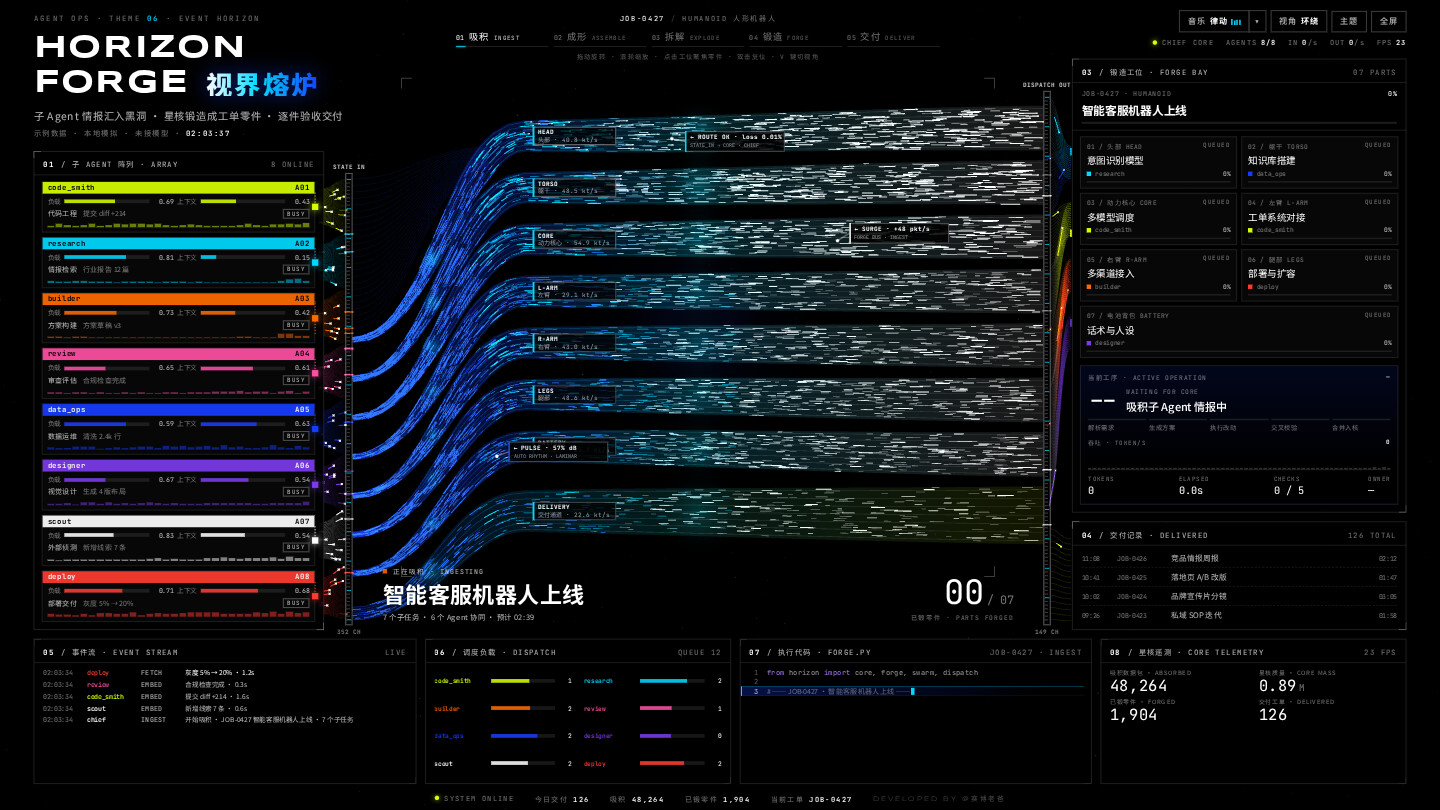
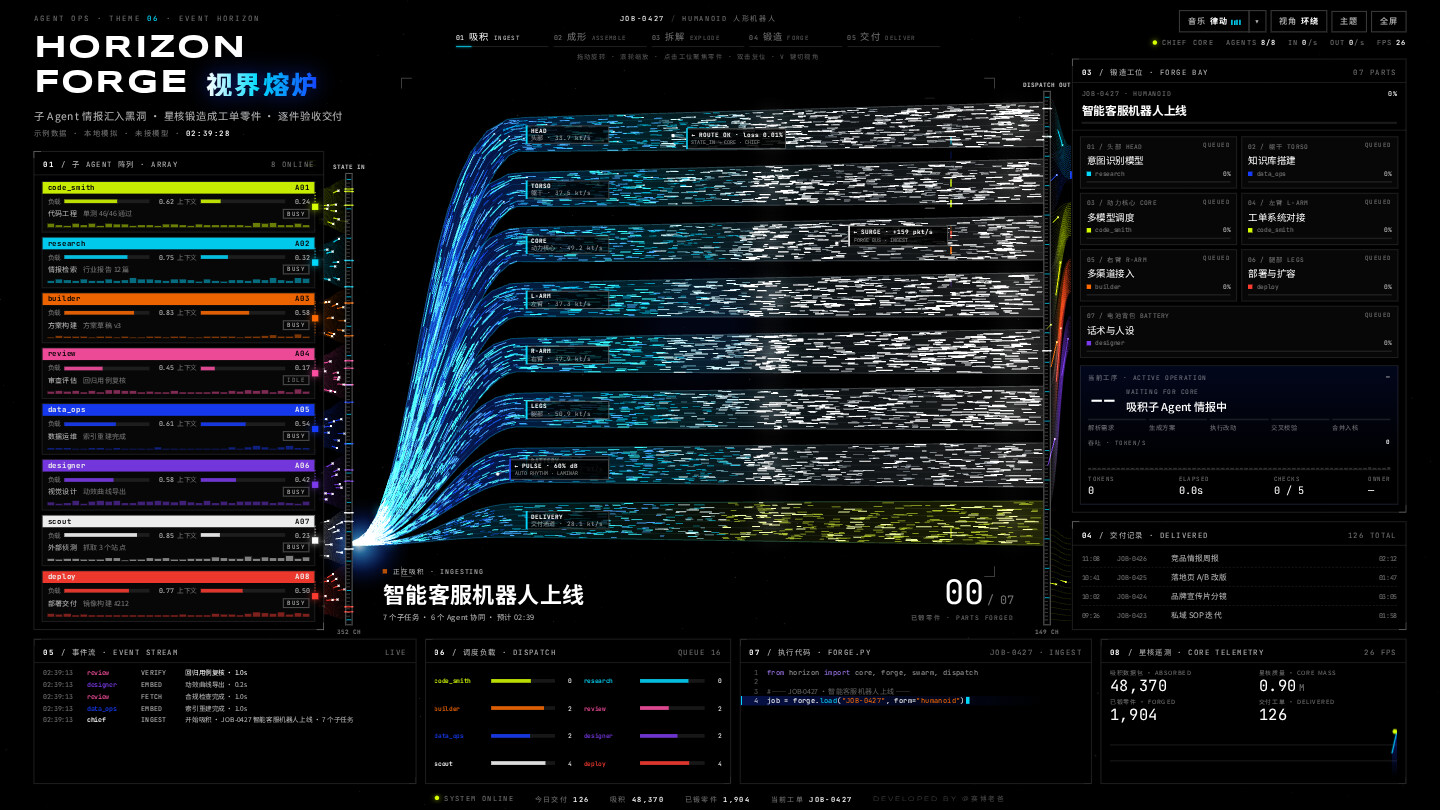
update

diff --git a/index.html b/index.html
@@ -11058,24 +11058,28 @@ function sampleBand(b, u) {
     b.hw[i0] + (b.hw[i1] - b.hw[i0]) * t
   ];
 }
-function makeBand(x0, x1, yStart, yBranch, yEnd, wStart, wBranch, wEnd, meta) {
+function makeBand(x0, x1, yStart, yBranch, yEnd, wStart, wBranch, wEnd, meta, bendFrac) {
   var xs = new Float32Array(FLOW_SEG + 1), ys = new Float32Array(FLOW_SEG + 1);
   var nx = new Float32Array(FLOW_SEG + 1), ny = new Float32Array(FLOW_SEG + 1);
   var hw = new Float32Array(FLOW_SEG + 1);
-  var splitU = 0.25, xBr = x0 + (x1 - x0) * splitU, spanL = xBr - x0, spanR = x1 - xBr;
-  var s1 = [x0, yStart, x0 + spanL * 0.46, yStart, xBr - spanL * 0.40, yBranch, xBr, yBranch];
-  var s2 = [xBr, yBranch, xBr + spanR * 0.34, yBranch, x1 - spanR * 0.34, yEnd, x1, yEnd];
+  var bf = (bendFrac !== undefined) ? bendFrac : 0.5;
+  var splitU = 0.24, xBr = x0 + (x1 - x0) * splitU, spanL = xBr - x0, spanR = x1 - xBr;
+  /* 底部单点收束 → 陡峭电蓝上扫弧线 → 干脆折入右侧水平层流通道 */
+  var cp1x = x0 + spanL * (0.36 + bf * 0.14);
+  var cp2x = x0 + spanL * (0.50 + bf * 0.14);
+  var s1 = [x0, yStart, cp1x, yStart, cp2x, yBranch, xBr, yBranch];
+  var s2 = [xBr, yBranch, xBr + spanR * 0.35, yBranch + (yEnd - yBranch) * 0.35, x1 - spanR * 0.35, yBranch + (yEnd - yBranch) * 0.65, x1, yEnd];
   var k, u, p, w;
   for (k = 0; k <= FLOW_SEG; k++) {
     u = k / FLOW_SEG;
     if (u <= splitU) {
       var tu = u / splitU;
       p = bzPt(s1, tu);
-      w = wStart + (wBranch - wStart) * ease(tu);
+      w = wStart + (wBranch - wStart) * Math.pow(ease(tu), 1.25);
     } else {
       var tr = (u - splitU) / (1 - splitU);
       p = bzPt(s2, tr);
-      w = wBranch + (wEnd - wBranch) * Math.pow(tr, 0.85);
+      w = wBranch + (wEnd - wBranch) * Math.pow(tr, 0.88);
     }
     xs[k] = p[0]; ys[k] = p[1]; hw[k] = w;
   }
@@ -11084,31 +11088,31 @@ function makeBand(x0, x1, yStart, yBranch, yEnd, wStart, wBranch, wEnd, meta) {
     var dx = xs[k1] - xs[k0], dy = ys[k1] - ys[k0], l = Math.sqrt(dx * dx + dy * dy) || 1;
     nx[k] = -dy / l; ny[k] = dx / l;
   }
-  return { xs: xs, ys: ys, nx: nx, ny: ny, hw: hw, splitU: splitU, x0: x0, x1: x1, xBr: xBr, yBranch: yBranch, yEnd: yEnd, meta: meta || {} };
+  return { xs: xs, ys: ys, nx: nx, ny: ny, hw: hw, splitU: splitU, x0: x0, x1: x1, xBr: xBr, yStart: yStart, yBranch: yBranch, yEnd: yEnd, meta: meta || {} };
 }
 function initFlowParticles() {
   flowParts = [];
   if (!flowBands.length) return;
   var rr = mulberry32(314159);
-  /* 更高密度（5400 条精细短条纹）+ 更短长度，视觉层次更细腻 */
-  var totalN = L.narrow ? 1900 : 5400;
+  /* 高密度 6600 条锐利短条纹，右侧白亮饱满、左侧电蓝紧密汇聚 */
+  var totalN = L.narrow ? 2200 : 6600;
   var nB = flowBands.length, i, per;
   var hasDel = flowBands[nB - 1].meta.kind === "del";
   for (var bi = 0; bi < nB; bi++) {
     var isDel = flowBands[bi].meta.kind === "del";
-    per = Math.round(totalN * (isDel ? 0.08 : 0.92 / Math.max(1, nB - (hasDel ? 1 : 0))));
+    per = Math.round(totalN * (isDel ? 0.11 : 0.89 / Math.max(1, nB - (hasDel ? 1 : 0))));
     for (i = 0; i < per; i++) {
-      var laneSlot = (Math.floor(rr() * 28) + 0.5) / 28 * 2 - 1;
-      var v = clamp(laneSlot * 0.90 + (rr() - 0.5) * 0.18, -1, 1);
+      var laneSlot = (Math.floor(rr() * 30) + 0.5) / 30 * 2 - 1;
+      var v = clamp(laneSlot * 0.92 + (rr() - 0.5) * 0.14, -1, 1);
       var coreBias = 1 - Math.abs(v);
       var q = rr();
-      var tier = q < 0.52 ? 0 : (q < 0.86 ? 1 : 2);
+      var tier = q < 0.44 ? 0 : (q < 0.82 ? 1 : 2);
       flowParts.push({
         b: bi,
         u: rr(),
         v: v,
-        spd: (0.14 + rr() * 0.24) * (0.76 + coreBias * 0.46),
-        len: 0.0065 + rr() * 0.0135 + (tier === 2 ? 0.0055 : 0),
+        spd: (0.16 + rr() * 0.25) * (0.78 + coreBias * 0.44),
+        len: 0.006 + rr() * 0.0125 + (tier === 2 ? 0.0055 : 0),
         tier: tier,
         ph: rr() * TAU,
         blink: rr() * TAU
@@ -11123,7 +11127,7 @@ function buildCurves() {
   var jParts = (typeof job === "function" && job()) ? job().parts : [];
   if (!L.narrow) {
     var st = L.stage, colL = rel($("colL")), leftEdge = colL.x + colL.w;
-    /* 1. 恢复原版左侧 STATE IN 全高 352 CH 密集丝扇连接 */
+    /* 1. 左侧 STATE IN 全高密集丝扇连接 */
     var bx = leftEdge + 34 * bsc, b0 = colL.y + 38 * bsc, b1 = colL.y + colL.h - 14 * bsc;
     busIn = { x: bx, y0: b0, y1: b1, label: "STATE IN" };
     var nPer = 44, total = AG.length * nPer;
@@ -11137,32 +11141,33 @@ function buildCurves() {
         inByAgent[i].push(curvesIn.length); curvesIn.push(cv);
       }
     }
-    /* 2. 恢复原版右侧 DISPATCH OUT 全高 ~150 CH 密集丝扇连接 */
+    /* 2. 右侧 DISPATCH OUT 全高密集丝扇连接 */
     var colR = rel($("colR")), bay = rel($("bay")), dv = rel($("deliv")), pcs = partsBox.children;
     var ox = colR.x - 34 * bsc, o0 = bay.y + 52 * bsc, o1 = dv.y + dv.h - 14 * bsc;
     busOut = { x: ox, y0: o0, y1: o1, label: "DISPATCH OUT" };
     var nBands = Math.max(1, pcs.length);
-    var flowTop = Math.max(o0 + 18 * bsc, st.y + st.h * 0.12);
-    var flowBot = Math.min(o1 - 12 * bsc, st.y + st.h * 0.86);
-    var splitY = flowTop + (flowBot - flowTop) * 0.84;
-    var slotH = (splitY - flowTop) / nBands;
+    var nLanes = nBands + 1; /* 等距排布全部工位通道 + 底部 DELIVERY 通道 */
+    var flowTop = Math.max(o0 + 14 * bsc, st.y + st.h * 0.09);
+    var flowBot = Math.min(o1 - 8 * bsc, st.y + st.h * 0.87);
+    var slotH = (flowBot - flowTop) / nLanes;
     var x0 = bx + 5 * bsc, x1 = ox - 5 * bsc;
-    var trunk0 = b0 + (b1 - b0) * 0.34, trunk1 = b1 - 8 * bsc;
+    /* 左下角单点极致收束源头（所有电蓝光束由此喷涌上扬并依次水平展开） */
+    var yPinch = flowBot - 4 * bsc;
     var nOut = Math.max(14, Math.round(134 / nBands));
     var outSpan = (dv.y - 18 * bsc) - o0;
+    var bandW = slotH * 0.365;
     for (i = 0; i < nBands; i++) {
-      var frac = nBands > 1 ? i / (nBands - 1) : 0.5;
-      var yStart = trunk0 + (0.04 + frac * 0.82) * (trunk1 - trunk0);
+      var frac = nLanes > 1 ? i / (nLanes - 1) : 0.5;
+      var yStart = yPinch - (nLanes - 1 - i) * 0.45 * bsc;
       var yBr = flowTop + (i + 0.5) * slotH;
-      var fanTilt = (frac - 0.5) * slotH * 0.30;
-      var yRight = clamp(yBr + fanTilt, flowTop + slotH * 0.24, splitY - slotH * 0.14);
+      /* 右侧轻微上扬张角，保持干脆平行层流 */
+      var yRight = yBr - (1 - frac * 1.15) * 14 * bsc;
       var pMeta = jParts[i] || { n: "通道 " + (i + 1), en: "LANE " + (i + 1), task: "队列就绪", ag: AGENTS[i % AGENTS.length].id };
       var agIdx = AGI.hasOwnProperty(pMeta.ag) ? AGI[pMeta.ag] : (i % AGENTS.length);
-      var bandW = slotH * 0.38;
-      flowBands.push(makeBand(x0, x1, yStart, yBr, yRight, bandW * 0.16, bandW * 0.80, bandW * 1.14, {
+      flowBands.push(makeBand(x0, x1, yStart, yBr, yRight, 1.5 * bsc, bandW * 0.84, bandW * 1.10, {
         kind: "part", idx: i, n: pMeta.n, en: pMeta.en, task: pMeta.task, ag: pMeta.ag, c: AGENTS[agIdx].c, rate: 18 + (i * 11 + 7) % 34
-      }));
-      /* 右侧 DISPATCH OUT → 工位卡片（恢复原版平顺密集丝扇） */
+      }, frac));
+      /* 右侧 DISPATCH OUT → 工位卡片 */
       outByPart.push([]);
       var pr = rel(pcs[i]), col = pcs[i].style.getPropertyValue("--c") || "#00d9ff";
       var seg0 = o0 + (i / nBands) * outSpan, seg1 = o0 + ((i + 1) / nBands) * outSpan;
@@ -11174,23 +11179,12 @@ function buildCurves() {
         outByPart[i].push(curvesOut.length); curvesOut.push(cv);
       }
     }
-    /* STATE IN 上半段温和汇流导丝（衔接全高 STATE IN 与主干，消除顶部断点） */
-    if (flowBands.length) {
-      var topBand = flowBands[0], joinPt = sampleBand(topBand, 0.20);
-      for (k = 0; k < 24; k++) {
-        var uTop = k / 23;
-        var syTop = b0 + uTop * (trunk0 - b0);
-        var jy = joinPt[1] + (uTop - 0.5) * topBand.hw[Math.round(FLOW_SEG * 0.20)] * 1.4;
-        var dTop = joinPt[0] - x0;
-        curvesCollect.push({ s1: [x0, syTop, x0 + dTop * 0.42, syTop, joinPt[0] - dTop * 0.45, jy, joinPt[0], jy], s2: null, f: 1 });
-      }
-    }
-    /* 底部交付流通道 + 恢复原版 16 丝交付连接 */
-    var delH = Math.max(22 * bsc, flowBot - splitY);
-    var delYStart = trunk1, delYBr = splitY + delH * 0.56, delYEnd = splitY + delH * 0.62;
-    flowBands.push(makeBand(x0, x1, delYStart, delYBr, delYEnd, delH * 0.10, delH * 0.30, delH * 0.42, {
-      kind: "del", idx: -1, n: "交付通道", en: "DELIVERY", task: "整机归档", ag: "deploy", c: "#d7ff00", rate: 14.8
-    }));
+    /* 底部交付流通道（与上方 7 条等距平齐，自左下同源平滑滑出，右侧呈橄榄金黄质感） */
+    var delYBr = flowTop + (nBands + 0.5) * slotH;
+    var delYEnd = delYBr + 4 * bsc;
+    flowBands.push(makeBand(x0, x1, yPinch, delYBr, delYEnd, 1.3 * bsc, bandW * 0.84, bandW * 1.10, {
+      kind: "del", idx: -1, n: "交付通道", en: "DELIVERY", task: "整机归档", ag: "deploy", c: "#d7ff00", rate: 21.8
+    }, 1.0));
     var delBus0 = dv.y + 10 * bsc, delBus1 = o1;
     for (k = 0; k < 16; k++) {
       var dy = delBus0 + (k / 15) * Math.max(12, delBus1 - delBus0);
@@ -11242,14 +11236,16 @@ function renderWeb() {
     var isDel = b.meta.kind === "del";
     g = fc.createLinearGradient(b.x0, 0, b.x1, 0);
     if (isDel) {
-      g.addColorStop(0, "rgba(22,60,255,0.18)");
-      g.addColorStop(0.35, "rgba(0,217,255,0.14)");
-      g.addColorStop(1, "rgba(215,255,0,0.10)");
+      g.addColorStop(0, "rgba(26,90,255,0.28)");
+      g.addColorStop(0.24, "rgba(0,198,255,0.16)");
+      g.addColorStop(0.56, "rgba(96,122,22,0.12)");
+      g.addColorStop(1, "rgba(176,196,24,0.20)");
     } else {
-      g.addColorStop(0, "rgba(22,60,255,0.34)");
-      g.addColorStop(0.22, "rgba(22,60,255,0.26)");
-      g.addColorStop(0.48, "rgba(0,217,255,0.18)");
-      g.addColorStop(1, "rgba(255,255,255,0.11)");
+      g.addColorStop(0, "rgba(30,96,255,0.44)");
+      g.addColorStop(0.20, "rgba(18,74,255,0.32)");
+      g.addColorStop(0.42, "rgba(0,210,255,0.17)");
+      g.addColorStop(0.72, "rgba(180,220,245,0.10)");
+      g.addColorStop(1, "rgba(255,255,255,0.13)");
     }
     fc.fillStyle = g;
     fc.beginPath();
@@ -11262,14 +11258,39 @@ function renderWeb() {
     }
     fc.closePath();
     fc.fill();
+
+    /* 通道上下清晰玻璃边界线（强轮廓感） */
+    var ge = fc.createLinearGradient(b.x0, 0, b.x1, 0);
+    if (isDel) {
+      ge.addColorStop(0, "rgba(64,160,255,0.45)");
+      ge.addColorStop(0.30, "rgba(0,217,255,0.30)");
+      ge.addColorStop(1, "rgba(195,215,48,0.34)");
+    } else {
+      ge.addColorStop(0, "rgba(70,152,255,0.52)");
+      ge.addColorStop(0.24, "rgba(0,217,255,0.34)");
+      ge.addColorStop(0.60, "rgba(210,238,255,0.24)");
+      ge.addColorStop(1, "rgba(255,255,255,0.28)");
+    }
+    fc.strokeStyle = ge; fc.lineWidth = 0.95;
+    for (var side = -1; side <= 1; side += 2) {
+      fc.beginPath();
+      for (k = 0; k <= FLOW_SEG; k++) {
+        var sx = b.xs[k] + b.nx[k] * b.hw[k] * side;
+        var sy = b.ys[k] + b.ny[k] * b.hw[k] * side;
+        if (k === 0) fc.moveTo(sx, sy); else fc.lineTo(sx, sy);
+      }
+      fc.stroke();
+    }
+
+    /* 内部柔和层流导丝 */
     var gl = fc.createLinearGradient(b.x0, 0, b.x1, 0);
-    gl.addColorStop(0, "rgba(22,60,255,0.36)");
-    gl.addColorStop(0.26, "rgba(0,217,255,0.25)");
-    gl.addColorStop(0.62, "rgba(210,238,255,0.17)");
-    gl.addColorStop(1, "rgba(255,255,255,0.13)");
-    fc.strokeStyle = gl; fc.lineWidth = 0.6;
-    for (l = -3; l <= 3; l++) {
-      var lv = l / 3.4;
+    gl.addColorStop(0, "rgba(38,118,255,0.28)");
+    gl.addColorStop(0.28, "rgba(0,217,255,0.16)");
+    gl.addColorStop(0.65, "rgba(210,238,255,0.10)");
+    gl.addColorStop(1, isDel ? "rgba(195,215,48,0.12)" : "rgba(255,255,255,0.09)");
+    fc.strokeStyle = gl; fc.lineWidth = 0.55;
+    for (l = -2; l <= 2; l++) {
+      var lv = l / 3.0;
       fc.beginPath();
       for (k = 0; k <= FLOW_SEG; k++) {
         var lx = b.xs[k] + b.nx[k] * b.hw[k] * lv;
@@ -11279,10 +11300,17 @@ function renderWeb() {
       fc.stroke();
     }
   }
-  /* 上半部汇流极细导丝 */
-  if (curvesCollect.length) {
-    fc.strokeStyle = "rgba(22,60,255,0.16)"; fc.lineWidth = 0.65;
-    for (i = 0; i < curvesCollect.length; i++) { fc.beginPath(); pathTwo(fc, curvesCollect[i]); fc.stroke(); }
+  /* 左下角收束喷口炽白-电蓝聚焦辉光 */
+  if (flowBands.length) {
+    var fb0 = flowBands[flowBands.length - 1];
+    var px0 = fb0.x0, py0 = fb0.yStart || fb0.ys[0], prR = 68 * Math.max(0.7, L.bs);
+    var pg = fc.createRadialGradient(px0 + 6, py0, 0, px0 + 12, py0, prR);
+    pg.addColorStop(0, "rgba(235,250,255,0.92)");
+    pg.addColorStop(0.18, "rgba(60,168,255,0.68)");
+    pg.addColorStop(0.55, "rgba(22,76,255,0.22)");
+    pg.addColorStop(1, "rgba(0,0,0,0)");
+    fc.fillStyle = pg;
+    fc.beginPath(); fc.arc(px0 + 8, py0, prR, 0, TAU); fc.fill();
   }
 
   /* B. 左右两侧恢复原版高密丝扇连接 + 总线（独立于 web，始终锐利清晰） */
@@ -11741,20 +11769,20 @@ function updateAudio(dt) {
 
 /* 截屏 3-5 风格高密度短条纹调色桶（支持按音乐响度每帧动态调整透明度：忽明忽暗） */
 var FLOW_BUCKETS = [
-  { r: 22,  g: 60,  b: 255, a0: 0.12, a1: 0.58, w: 0.78 }, // 0: left deep cobalt (dim)
-  { r: 48,  g: 112, b: 255, a0: 0.20, a1: 0.90, w: 0.98 }, // 1: left electric blue (bright)
-  { r: 0,   g: 217, b: 255, a0: 0.14, a1: 0.68, w: 0.85 }, // 2: mid cyan (dim)
-  { r: 0,   g: 232, b: 255, a0: 0.24, a1: 0.98, w: 1.12 }, // 3: mid bright cyan (beat flare)
-  { r: 155, g: 228, b: 255, a0: 0.14, a1: 0.64, w: 0.82 }, // 4: mid-right ice
-  { r: 220, g: 244, b: 255, a0: 0.24, a1: 0.94, w: 1.05 }, // 5: mid-right silver flare
-  { r: 255, g: 255, b: 255, a0: 0.10, a1: 0.54, w: 0.76 }, // 6: right white fine (dim)
-  { r: 255, g: 255, b: 255, a0: 0.20, a1: 0.86, w: 1.02 }, // 7: right white bright
-  { r: 255, g: 255, b: 255, a0: 0.34, a1: 1.00, w: 1.32 }, // 8: right white blazing hero
-  { r: 255, g: 106, b: 0,   a0: 0.16, a1: 0.68, w: 0.92 }, // 9: hot forge orange
-  { r: 255, g: 142, b: 48,  a0: 0.26, a1: 0.96, w: 1.16 }, // 10: hot forge blazing
-  { r: 255, g: 234, b: 208, a0: 0.34, a1: 1.00, w: 1.34 }, // 11: hot forge white-orange
-  { r: 215, g: 255, b: 0,   a0: 0.16, a1: 0.78, w: 0.96 }, // 12: deliver volt lime
-  { r: 246, g: 255, b: 185, a0: 0.28, a1: 0.98, w: 1.24 }  // 13: deliver radiant white-lime
+  { r: 24,  g: 84,  b: 255, a0: 0.30, a1: 0.74, w: 0.88 }, // 0: left deep electric blue
+  { r: 74,  g: 156, b: 255, a0: 0.44, a1: 0.98, w: 1.15 }, // 1: left blazing sapphire-ice
+  { r: 0,   g: 214, b: 255, a0: 0.28, a1: 0.78, w: 0.92 }, // 2: mid cyan
+  { r: 58,  g: 240, b: 255, a0: 0.42, a1: 1.00, w: 1.22 }, // 3: mid bright turquoise
+  { r: 175, g: 235, b: 255, a0: 0.26, a1: 0.74, w: 0.90 }, // 4: mid-right ice
+  { r: 232, g: 248, b: 255, a0: 0.42, a1: 0.98, w: 1.18 }, // 5: mid-right bright silver
+  { r: 225, g: 235, b: 245, a0: 0.24, a1: 0.68, w: 0.85 }, // 6: right white fine
+  { r: 255, g: 255, b: 255, a0: 0.42, a1: 0.95, w: 1.16 }, // 7: right white crisp
+  { r: 255, g: 255, b: 255, a0: 0.62, a1: 1.00, w: 1.52 }, // 8: right white blazing hero
+  { r: 255, g: 106, b: 0,   a0: 0.22, a1: 0.72, w: 0.95 }, // 9: hot forge orange
+  { r: 255, g: 142, b: 48,  a0: 0.36, a1: 0.96, w: 1.20 }, // 10: hot forge blazing
+  { r: 255, g: 234, b: 208, a0: 0.46, a1: 1.00, w: 1.42 }, // 11: hot forge white-orange
+  { r: 196, g: 220, b: 46,  a0: 0.28, a1: 0.82, w: 0.98 }, // 12: deliver olive-lime
+  { r: 244, g: 255, b: 175, a0: 0.44, a1: 0.98, w: 1.32 }  // 13: deliver radiant white-lime
 ];
 var bucketPts = FLOW_BUCKETS.map(function () { return []; });
 
@@ -11919,23 +11947,28 @@ function drawComets(c, dt) {
     if (pLum > 0.78 && effTier < 2) effTier++;
     else if (pLum < 0.34 && effTier > 0) effTier--;
 
+    var isDelLane = (b.meta.kind === "del");
     var bi;
     if (isHotBand) {
-      bi = u1 < 0.28 ? 9 : (effTier >= 2 || u1 > 0.72 ? 11 : 10);
+      bi = u1 < 0.26 ? 9 : (effTier >= 2 || u1 > 0.70 ? 11 : 10);
     } else if (isDelBand) {
-      bi = (effTier >= 2 || u1 > 0.58) ? 13 : 12;
-    } else if (u1 < 0.20) {
-      bi = effTier === 0 ? 0 : 1;
-    } else if (u1 < 0.38) {
+      bi = (effTier >= 2 || u1 > 0.56) ? 13 : 12;
+    } else if (isDelLane && u1 > 0.54) {
+      bi = effTier === 0 ? 12 : (effTier === 1 ? 12 : 13);
+    } else if (u1 < 0.05) {
+      bi = effTier >= 1 ? 5 : 1;
+    } else if (u1 < 0.23) {
+      bi = effTier === 0 ? 0 : (effTier === 1 ? 1 : 3);
+    } else if (u1 < 0.45) {
       bi = effTier === 0 ? 1 : (effTier === 1 ? 2 : 3);
-    } else if (u1 < 0.56) {
+    } else if (u1 < 0.58) {
       bi = effTier === 0 ? 2 : (effTier === 1 ? 4 : 5);
     } else {
       bi = effTier === 0 ? 6 : (effTier === 1 ? 7 : 8);
     }
     var arr = bucketPts[bi];
     arr.push(x0, y0, x1, y1);
-    if (effTier === 2 && pLum > 0.56 && u1 > 0.24 && tips.length < 720) tips.push(x1, y1, isHotBand ? 1 : (isDelBand ? 2 : 0));
+    if (effTier === 2 && pLum > 0.52 && u1 > 0.22 && tips.length < 820) tips.push(x1, y1, isHotBand ? 1 : (isDelLane ? 2 : 0));
   }
 
   c.save();
